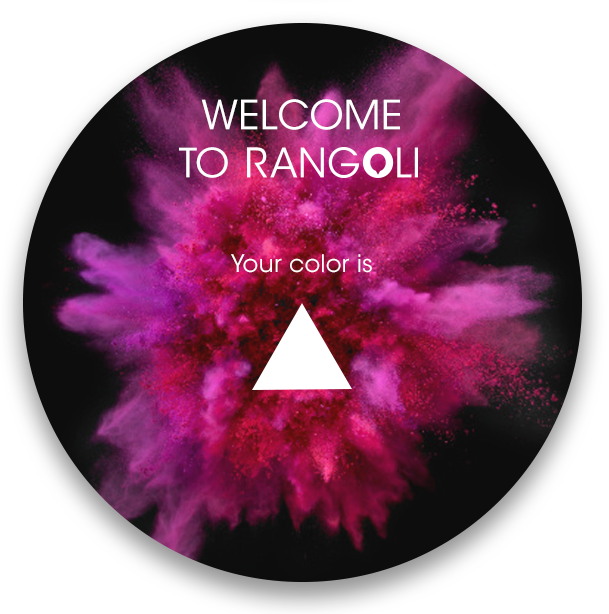
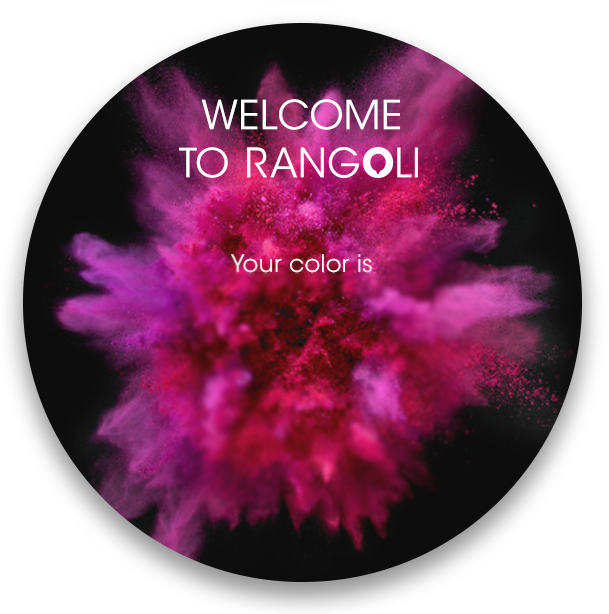
charm update on rangoli

Changed region(s): [[0.312, 0.4023, 0.7176, 0.7736]]

diff --git a/rangoli/wp-content/themes/rangoli/css/rangoli.css b/rangoli/wp-content/themes/rangoli/css/rangoli.css
@@ -109,6 +109,7 @@
     overflow: hidden;
     position: relative;
     width: 100%;
+    /*min-width: 1024px !important;*/
 }
 
 #color-slider ul {
@@ -808,6 +809,45 @@ svg#flower path:hover {
     background-repeat: no-repeat;
 }
 
+
+.Charmsbigcolor_009E01 {
+    background-image: url(../images/Charmsbig6.png);
+}
+
+/*green*/
+.Charmsbigcolor_FE0000 {
+    background-image: url(../images/Charmsbig3.png);
+}
+
+/*red*/
+.Charmsbigcolor_FF6500 {
+    background-image: url(../images/Charmsbig2.png);
+}
+
+/*orange*/
+.Charmsbigcolor_01ABFF {
+    background-image: url(../images/Charmsbig5.png);
+}
+
+/*blue*/
+.Charmsbigcolor_6F3CBF {
+    background-image: url(../images/Charmsbig4.png);
+}
+
+/*voilet*/
+.Charmsbigcolor_414143 {
+    background-image: url(../images/Charmsbig7.png);
+}
+
+/*grey*/
+.Charmsbigcolor_FEE600 {
+    background-image: url(../images/Charmsbig1.png);
+}
+
+/*yellow*/
+
+
+
 .charm.level_1 {
     background-position: 0 50%;
 }
@@ -836,11 +876,56 @@ svg#flower path:hover {
     background-position: -288px 50%;
 }
 
+
+
+.charmBiglevel_1 {
+    background-position: 0 50%;
+}
+
+.charmBiglevel_2 {
+    background-position: -103px 50%;
+}
+
+.charmBiglevel_3 {
+    background-position: -206px 50%;
+}
+
+.charmBiglevel_4 {
+    background-position: -311px 50%;
+}
+
+.charmBiglevel_5 {
+    background-position: -417px 50%;
+}
+
+.charmBiglevel_6 {
+    background-position: -523px 50%;
+}
+
+.charmBiglevel_7 {
+    background-position: -628px 50%;
+}
+
 .charm {
     background-repeat: no-repeat;
     display: inline-block;
     float: none;
     height: 40px;
     width: 40px;
+}
+
+.charmBig {
+    display: block;
+    float: none;
+    height: 100px;
+    margin: 0 auto;
+    width: 100px;
+}
+
+
+.your-color-block .charmBig {
+    transform: rotate(180deg);
+    margin-left: -3px;
+    margin-top: -5px;
 }
 

diff --git a/rangoli/wp-content/themes/rangoli/js/custom.js b/rangoli/wp-content/themes/rangoli/js/custom.js
@@ -183,14 +183,16 @@ $(document).ready(function () {
     $("#sign-in-button").click(function () {
         loginCustomer();
     });
-    $(".login_logout_link").click(function () {
-        if ($(this).children("a").text() == "Sign In") {
-            $(".signin-block").hide();
-            $(".your-color-block").hide();
-            $("#signin_popup").fadeIn();
-            $(".login-box").fadeIn();
-        }
-    })
+    $(window).load(function(){
+        $(".login_logout_link").click(function () {
+            if ($(this).children("a").text() == "Sign In") {
+                $(".signin-block").hide();
+                $(".your-color-block").hide();
+                $("#signin_popup").fadeIn();
+                $(".login-box").fadeIn();
+            }
+        })
+    });
 });
 
 
@@ -851,9 +853,9 @@ function ajax_load_pages(link) {
                 $(document).find(".wp_page_banner .play-video").remove();
             });
 
-            //$(window).load(function(){
-            //animate_tiles();
-            //});
+            $(window).load(function(){
+            animate_tiles();
+            });
 
 
             $(document).find(".homepage_page_banner .play-video").unbind("click");

diff --git a/rangoli/wp-content/themes/rangoli/css/custom.css b/rangoli/wp-content/themes/rangoli/css/custom.css
@@ -1834,14 +1834,14 @@ button.next-confirmation-page {
     z-index: 5;
 }
 .arrow-prev span {
-    background: url('/skin/frontend/new-yogasmoga/yogasmoga-theme/images/homepage/previous-slide.png') no-repeat;
-    position: absolute;
-    width: 60px;
-    height: 60px;
-    top: 50%;
-    margin-top:45px;
-    left:20px;
+    background: url("/skin/frontend/new-yogasmoga/yogasmoga-theme/images/homepage/previous-slide.png") no-repeat scroll 0 0 rgba(0, 0, 0, 0);
     cursor: pointer;
+    height: 60px;
+    left: 20px;
+    margin-top: -30px;
+    position: absolute;
+    top: 50%;
+    width: 60px;
 }
 .arrow-next span {
     background-image: url("/skin/frontend/new-yogasmoga/yogasmoga-theme/images/homepage/next-slide.png");
@@ -1849,7 +1849,7 @@ button.next-confirmation-page {
     width: 60px;
     height: 60px;
     top: 50%;
-    margin-top:45px;
+    margin-top:-30px;
     right:20px;
     cursor: pointer;
 }

diff --git a/rangoli/wp-content/themes/rangoli/css/header.css b/rangoli/wp-content/themes/rangoli/css/header.css
@@ -516,14 +516,14 @@ ul.main-nav > li.rangoli{background-image:none!important;}
 }
 
 /*      ***************  footer CSS **********************    */
-
+/*
 .footer .first-list li {
     font-family: gothambook;
     color: #555;
 
     font-size: 11px;
     line-height: 1.7;
-}
+}*/
 .footer li .bold-heading {
     color: #555;
     font-family: gothambold;

diff --git a/rangoli/wp-content/themes/rangoli/js/homepage.js b/rangoli/wp-content/themes/rangoli/js/homepage.js
@@ -143,3 +143,4 @@ function animation() {
     //
     //}
 }
+

diff --git a/rangoli/wp-content/themes/rangoli/page-journey.php b/rangoli/wp-content/themes/rangoli/page-journey.php
@@ -124,9 +124,13 @@ get_header();
                 $color_message = "<p style='margin-top:35px;'>Your color is</p>";
             }
             else{
+                $root = get_site_url();
+                $root = str_replace("/rangoli","/",$root);
                 $welcome_message = "WELCOME ".strtoupper($user_info->display_name).",";
                 $smogiBucks_message = "You have 25 SMOGI Bucks just for signing up.</p><p>(Learn how to earn more <span>SMOGI BUCKS</span>)</p>";
-                $magento_user = json_decode(file_get_contents($root . 'ys/session/loggedcustomer'));
+
+                $magento_user = json_decode(file_get_contents($root . 'ys/session/getcustomerbyemail/email/' . $user_info->user_login));
+
                 if ($magento_user) {
                     $create_date_mg = $magento_user->create_date;
                     $current_user_id = get_current_user_id();
@@ -160,7 +164,13 @@ get_header();
                 </div>
                 <div class="user_charm_display row" style="height: 120px; position: relative;">
                     <div class='row align-center'>
-                        <span class='user-color-charm'></span>
+                        <?php
+
+                            $user_level = get_user_level($user_id);
+//                            $user_profile = get_user_profile($user_id);
+//                            $main_color = $user_profile->color_main;
+                        ?>
+                        <span class='charmBig charmBig<?php echo $user_level;?>'></span>
                     </div>
                 </div>
                 <div class="interests-selector" style="padding-top: 30px">
@@ -338,15 +348,7 @@ function get_height(){
                                     $('.interest-page').slideUp();
                                     $(".confirmation-page").slideDown();
                                     copytoClipboard();
-                                    $(".user-color-charm").css({
-                                        'border-top': '80px solid' + user_color_shade,
-                                        'border-left': '45px solid transparent',
-                                        'border-right': '45px solid transparent',
-                                        'border-bottom': '0px solid transparent',
-                                        'position': 'absolute',
-                                        'left': '50%',
-                                        'margin-left': '-45px'
-                                    });
+                                    $(".charmBig").addClass("Charmsbigcolor_"+selectedColor.toUpperCase());
                                     $(".confirmation-page").css("min-height", $(window).height());
                                     $(".invite_friend").find("li").hover(function () {
                                         $(this).css({

diff --git a/rangoli/wp-content/themes/rangoli/footer.php b/rangoli/wp-content/themes/rangoli/footer.php
@@ -106,7 +106,21 @@
 
     <div class="your-color-block" style="background: url('<?php echo get_site_url(); ?>/wp-content/themes/rangoli/images/random-color.png') no-repeat; background-size:100%; background-position: 4px -2px; ">
         <div class="close_signin_popup" ></div>
-        <div class="color-traingle" style="border-bottom: 74px solid #555555; border-left: 47px solid transparent; border-right: 47px solid transparent;"></div>
+        <div class="color-traingle">
+            <?php
+                 if(is_user_logged_in()){
+                     $userID = get_current_user_id();
+                     $userInfo = get_userdata($userID);
+                     $user_level = get_user_level($userID);
+                     $userProfile = get_user_profile($userID);
+                     $main_color = $userProfile->color_main;
+
+            ?>
+                    <span class='charmBig charmBig<?php echo $user_level;?> Charmsbigcolor_<?php echo $main_color; ?>'></span>
+            <?php
+                }
+            ?>
+        </div>
         <a class="change-color" href="<?php echo get_site_url()?>/journey" ><img src="<?php echo get_site_url(); ?>/wp-content/themes/rangoli/images/change-color.png" /></a>
     </div>
     <div class="login-box">

diff --git a/app/code/local/Ysindia/Mod/controllers/SessionController.php b/app/code/local/Ysindia/Mod/controllers/SessionController.php
@@ -44,7 +44,8 @@ class Ysindia_Mod_SessionController extends Mage_Core_Controller_Front_Action
                 'gender' => $customer->getGender(),
                 'first_name' => $customer->getFirstname(),
                 'middle_name' => $customer->getMiddlename(),
-                'last_name' => $customer->getLastname()
+                'last_name' => $customer->getLastname(),
+                'create_date' => date('Y-m-d', $customer->getCreatedAtTimestamp())
             );
         } else {
             $ar = array('message' => 'invalid');
@@ -71,7 +72,8 @@ class Ysindia_Mod_SessionController extends Mage_Core_Controller_Front_Action
                 'gender' => $customer->getGender(),
                 'first_name' => $customer->getFirstname(),
                 'middle_name' => $customer->getMiddlename(),
-                'last_name' => $customer->getLastname()
+                'last_name' => $customer->getLastname(),
+                'create_date' => date('Y-m-d', $customer->getCreatedAtTimestamp())
             );
         } else {
             $ar = array('message' => 'invalid');

diff --git a/rangoli/wp-content/themes/rangoli/liked-watchings.php b/rangoli/wp-content/themes/rangoli/liked-watchings.php
@@ -197,7 +197,7 @@
 
     #liked_watchs .flex-direction-nav .flex-next {
         background: url("<?php  echo get_site_url() ?>/wp-content/themes/rangoli/images/arrows-slider.png") repeat scroll 0 0 / 50px auto rgba(0, 0, 0, 0);
-        height: 25px;
+        height: 17px;
         right: 0;
         background-position: right;
         width: 25px;
